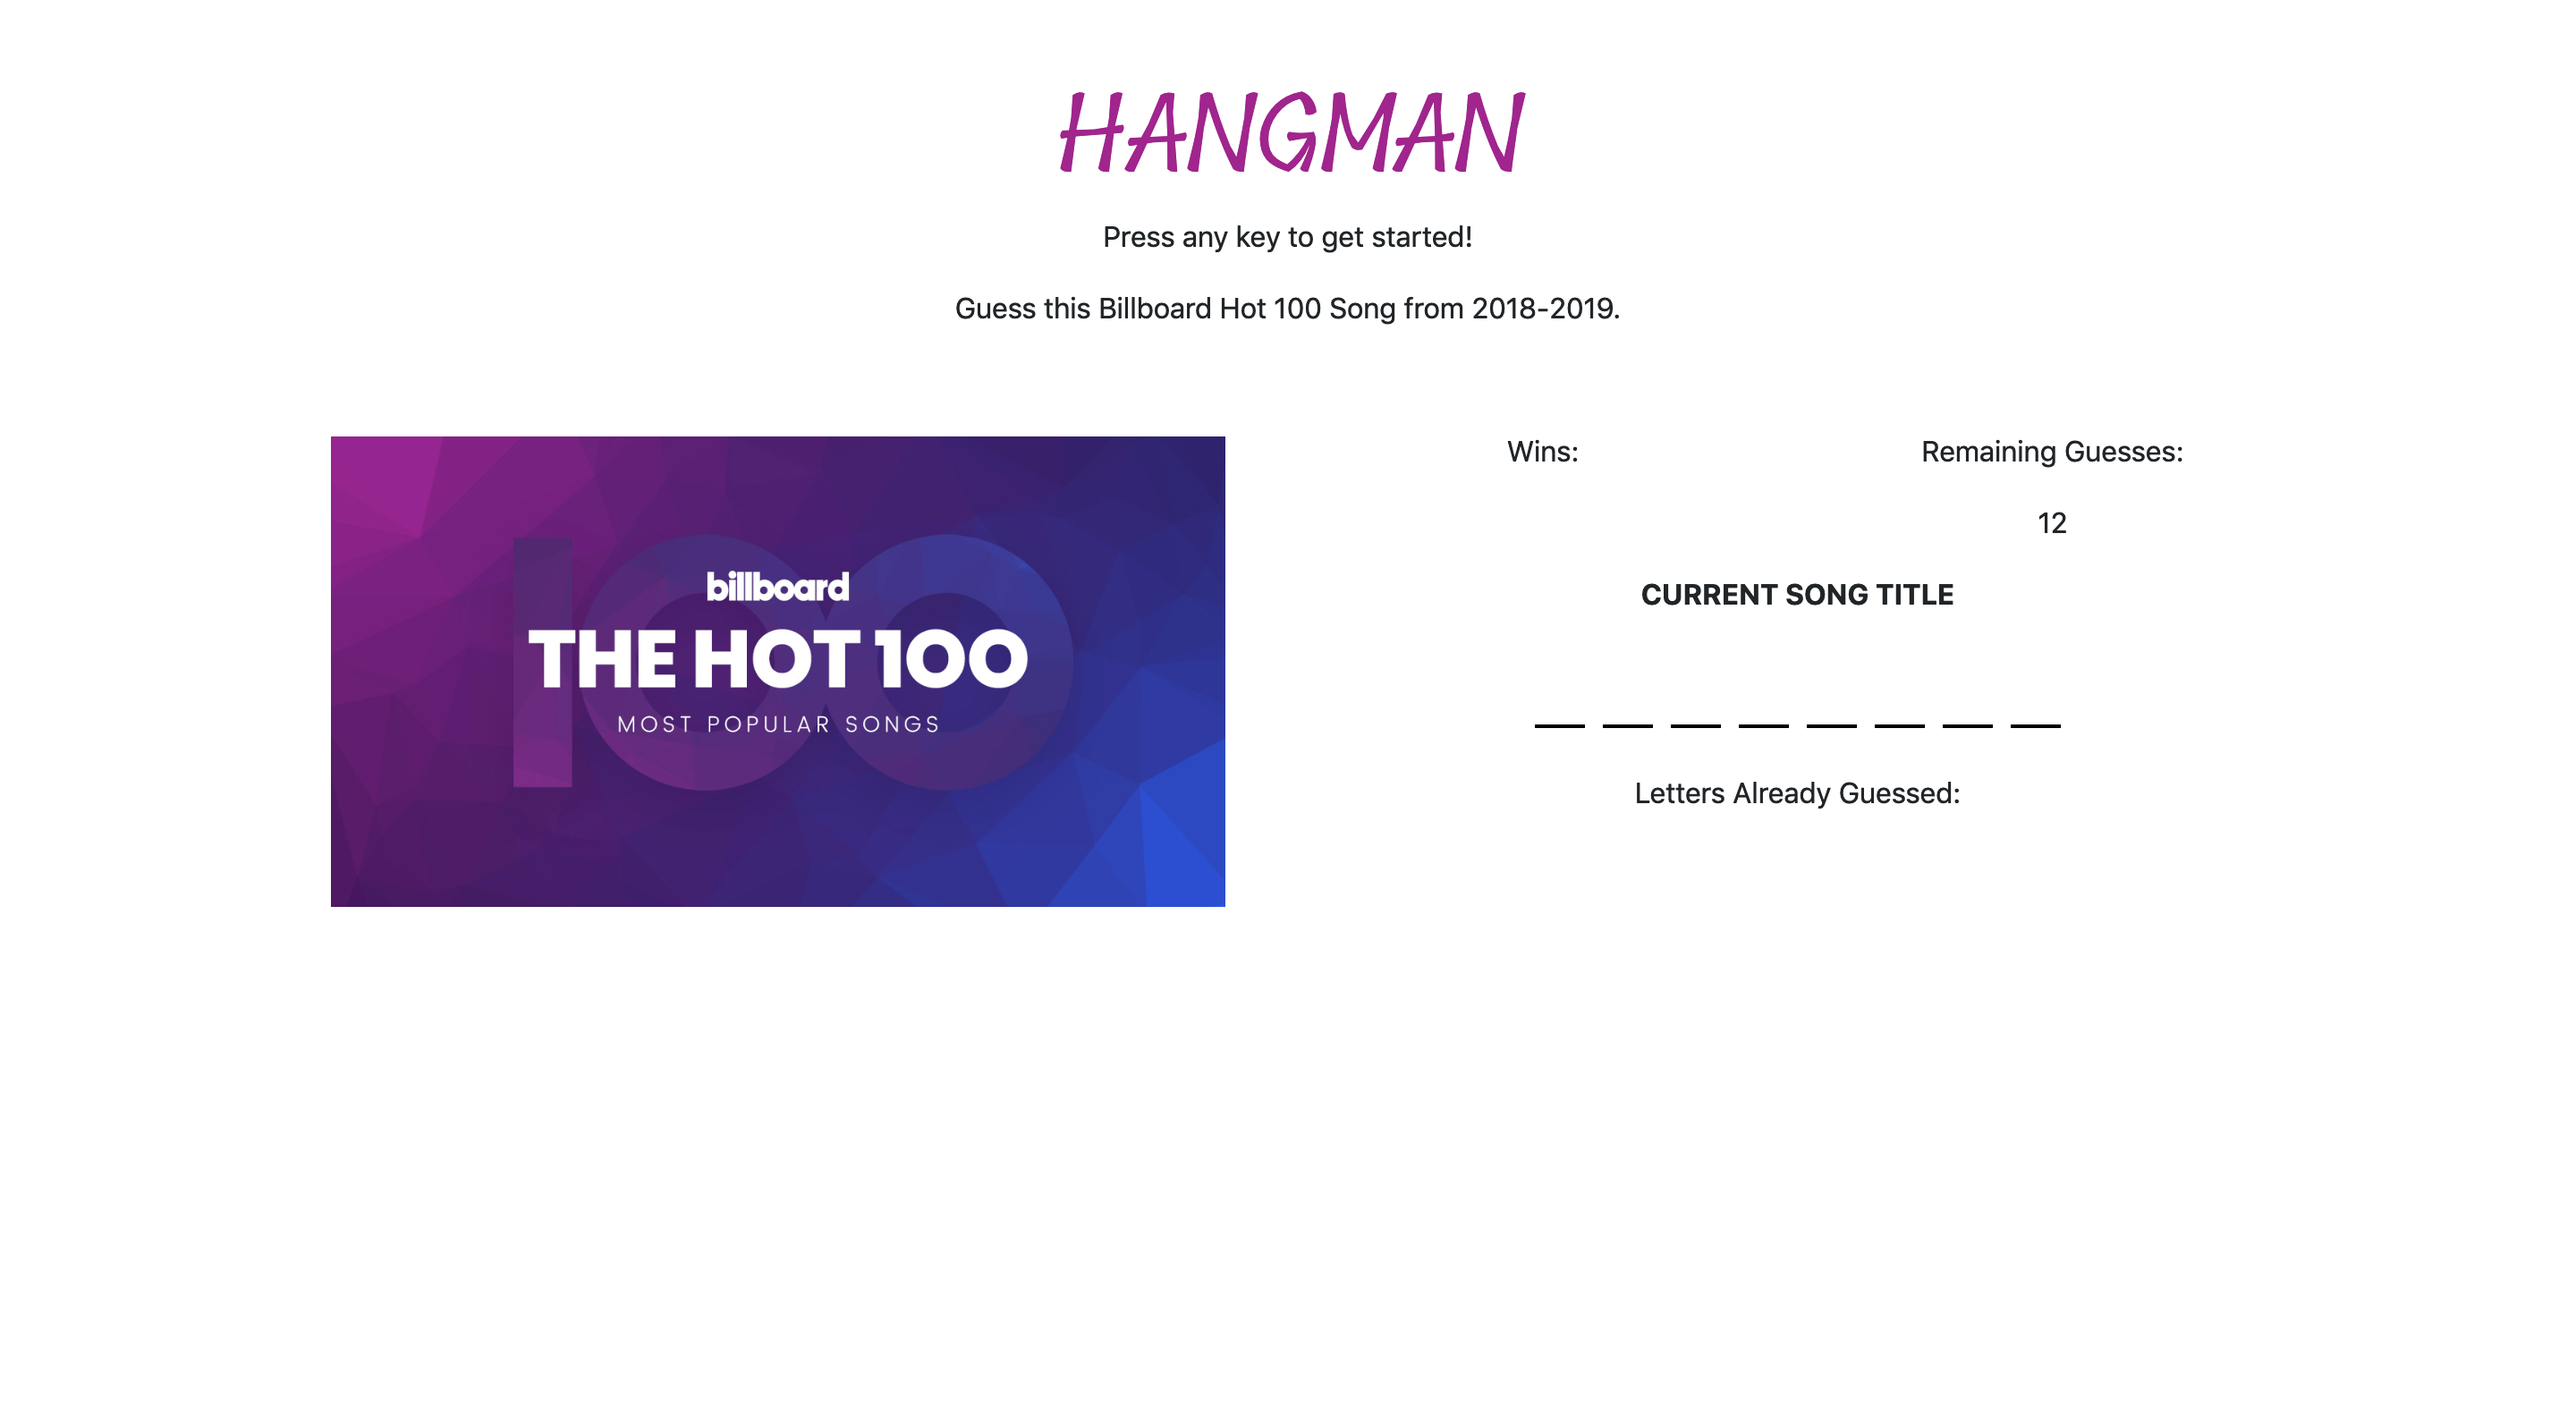
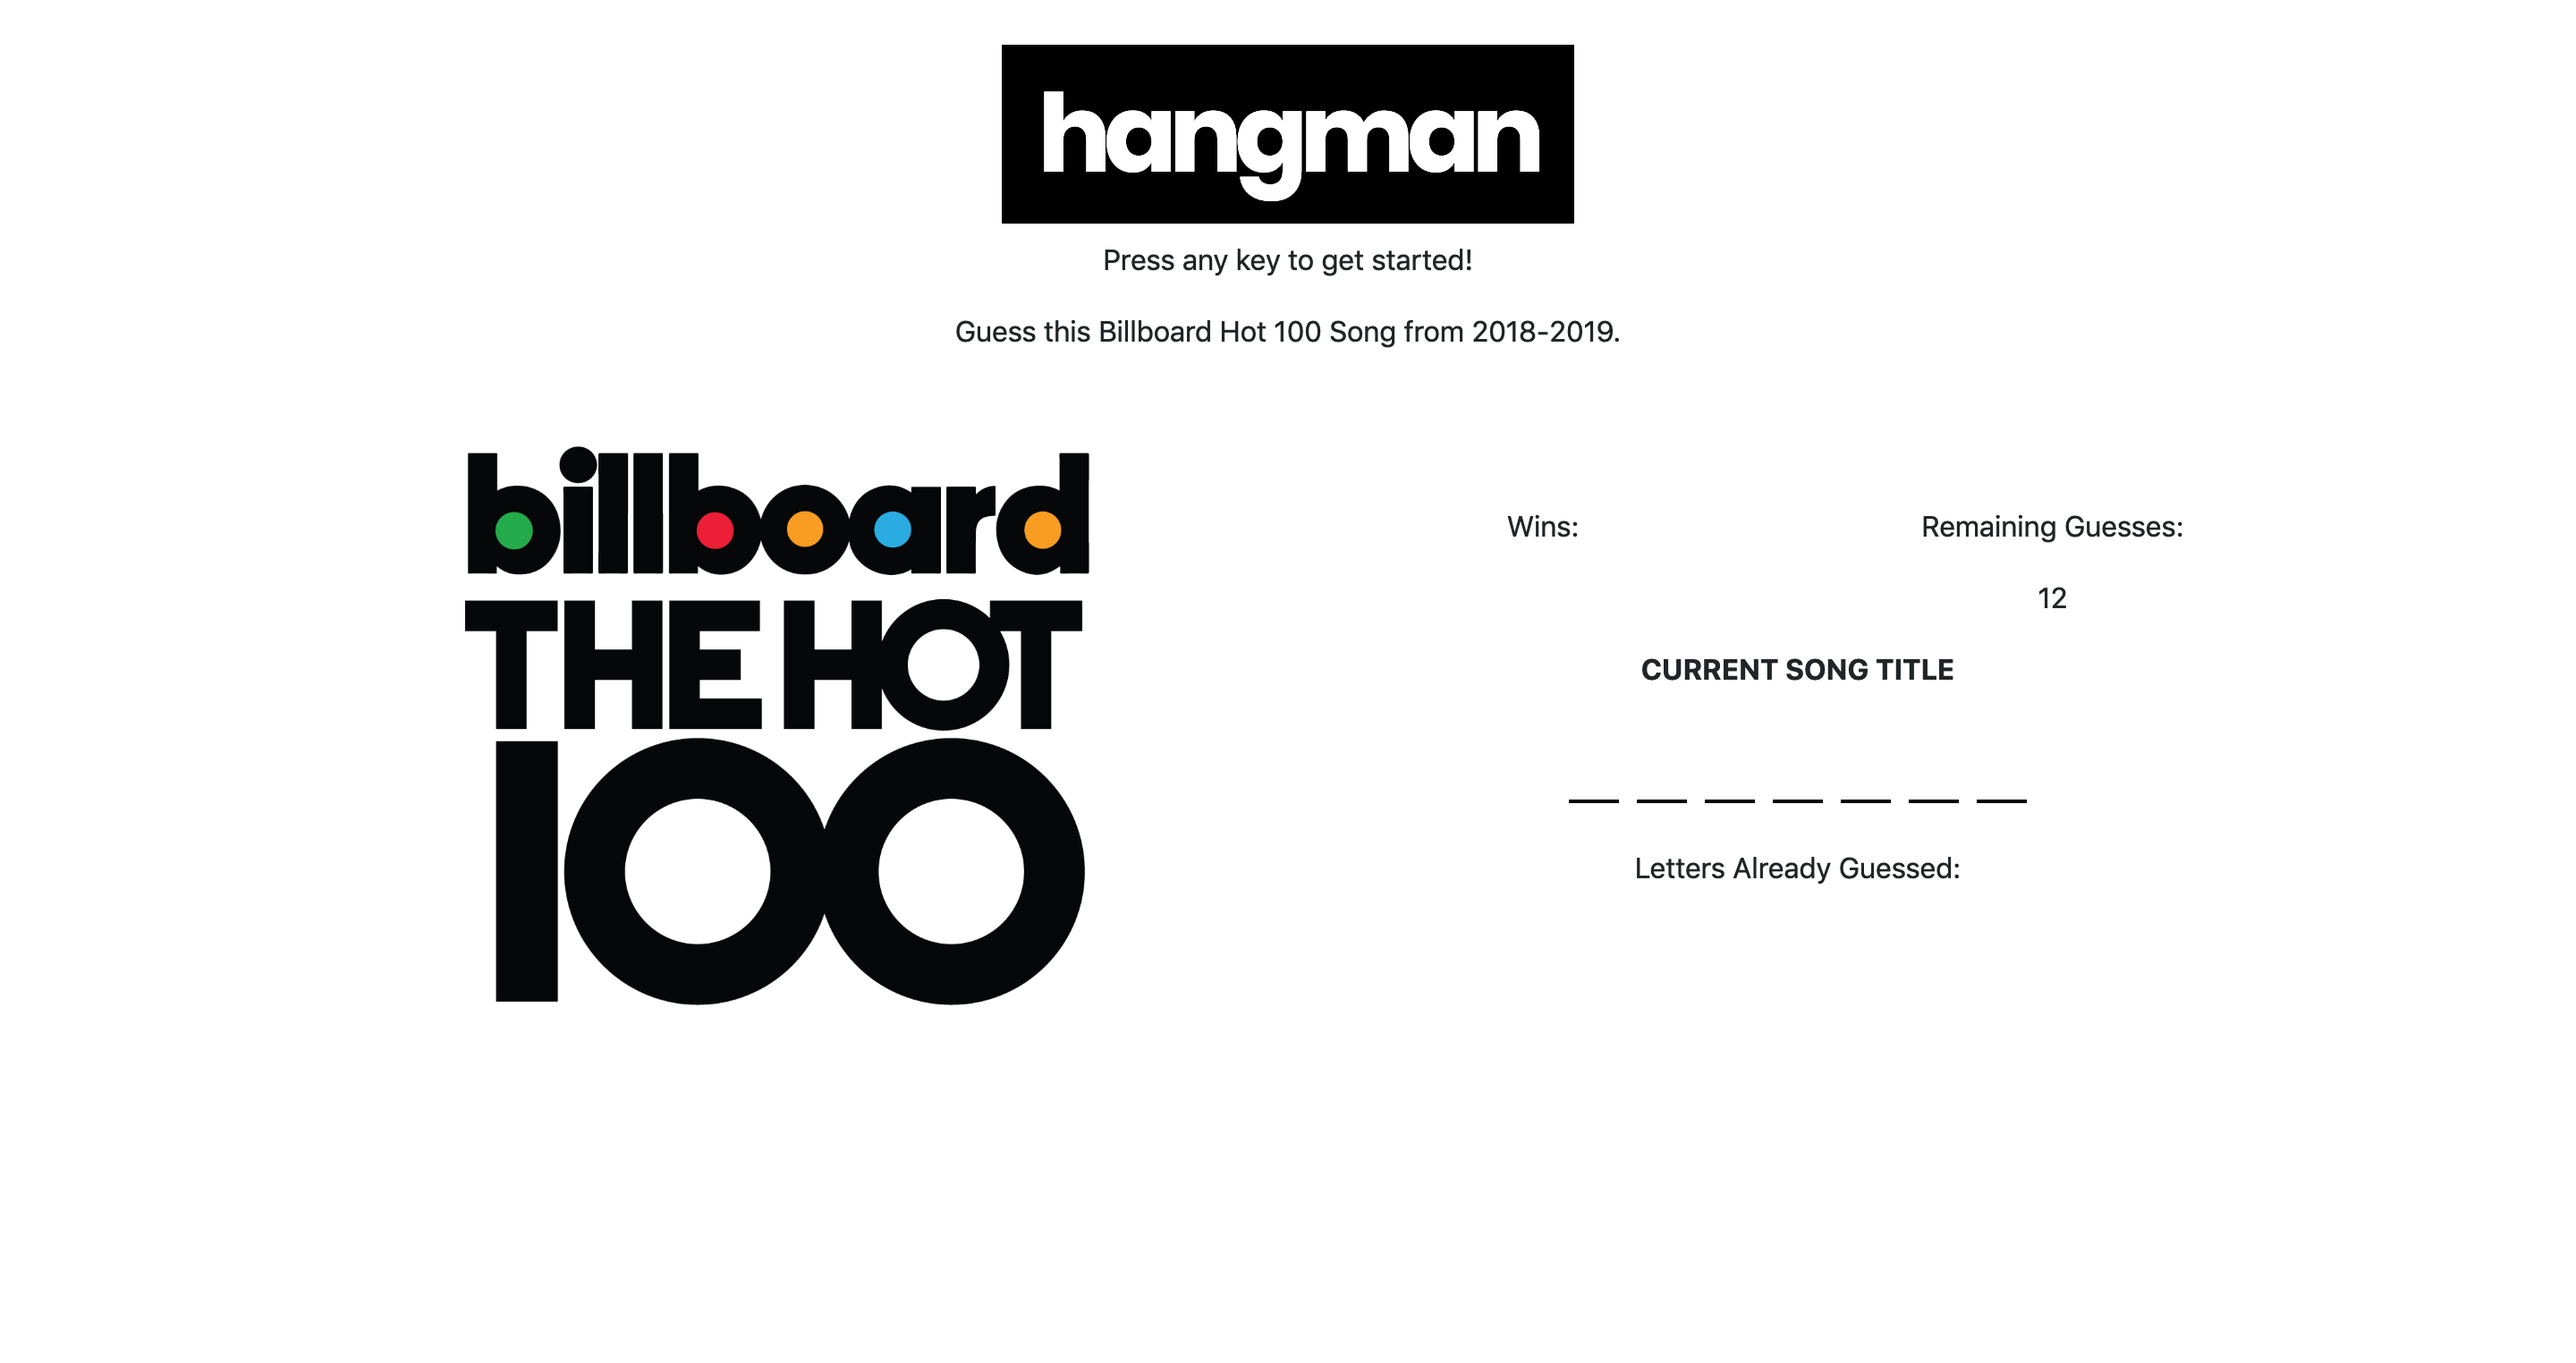
style tweaks, new readme image, file cleanups

diff --git a/index.html b/index.html
@@ -10,8 +10,6 @@
         integrity="sha384-ggOyR0iXCbMQv3Xipma34MD+dH/1fQ784/j6cY/iJTQUOhcWr7x9JvoRxT2MZw1T" crossorigin="anonymous">
     <!-- Poppins Font -->
     <link href="https://fonts.googleapis.com/css?family=Poppins:400,700" rel="stylesheet">
-    <!-- Tillana Font -->
-    <!-- <link href="https://fonts.googleapis.com/css?family=Tillana:400,600,700" rel="stylesheet"> -->
     <link rel="stylesheet" type="text/css" href="assets/css/style.css">
 </head>
 <body>
@@ -33,12 +31,6 @@
                         <img src="assets/images/billboard_hot100.png" class="img-fluid" alt="" id="left-image">
                     </div>
                 </div>
-                <!-- <div class="row mt-3">
-                    <div class="col-md-12">
-                        <input class="btn btn-primary" type="reset" value="Play Again?" id="play-again">
-                    </div>
-                </div> -->
-                
             </div>
 
             <div class="col-xl-6 col-lg-6 col-md-7 align-self-center">
@@ -72,7 +64,7 @@
         </div>
 
         <!-- Last Row -->
-        <div class="row m-5">
+        <div class="row m-4">
             <input class="btn btn-primary" type="reset" value="Play Again?" id="play-again" autofocus>
         </div>
     </div>

diff --git a/assets/css/style.css b/assets/css/style.css
@@ -5,7 +5,6 @@ h1, h2, h3, h4, h5, h6 {
 h1 {
     text-align: center;
     font-size: 60px;
-    /* font-weight: bold; */
     line-height: 1.5;
     color: white;
     text-transform: lowercase;
@@ -22,7 +21,7 @@ img {
 
 
 .title {
-    padding: 5px 15px 15px;;
+    padding: 5px 15px 15px;
     margin: 20px;
 }
 
@@ -60,12 +59,16 @@ input {
 }
 
 #play-again {
-    /* position: absolute; */
-    /* top: -120px; */
-    /* left: 0; */
     display: none;
     opacity: 0;
     transition: all 0.25s ease-in-out;
+    background: #01b1e6;
+    border-color: #01b1e6;
+}
+
+#play-again:hover {
+    background: #007bff;
+    border-color: #007bff;
 }
 
 .show {
@@ -81,6 +84,17 @@ input {
 }
 
 
+
+@media screen and (max-width: 768px) {
+    .m-5 {
+        margin: 1rem!important;
+    }
+
+    .title {
+        padding: 0;
+        margin-bottom: 0;
+    }
+}
 
 
 @media screen and (max-width: 480px) {
@@ -99,13 +113,11 @@ input {
 
 }
 
-@media screen and (max-width: 768px) {
-    .m-5 {
-        margin: 1rem!important;
-    }
 
-    .title {
-        padding: 0;
-        margin-bottom: 0;
+@media screen and (max-width: 450px) {
+    h1 {
+        font-size: 50px;
+        line-height: 1.5;
+        letter-spacing: -4px;
     }
 }

diff --git a/assets/javascript/game.js b/assets/javascript/game.js
@@ -117,9 +117,8 @@ var game = {
             game.chosenArtistText.textContent = '';
 
             // reset image
-        game.leftImage.src = 'assets/images/billboard_hot100.png';
+            game.leftImage.src = 'assets/images/billboard_hot100.png';
             // reset image width
-            // game.leftImage.style.width = '500px';
 
             // start with blank <li>s for each letter in the song name
             for (var i = 0; i < game.chosenSong.length; i++) {
@@ -233,7 +232,6 @@ var game = {
         // change to artist image
         game.leftImage.src = 'assets/images/' + game.chosenSong + '.jpg';
         // shrink image width to fit square image
-        // game.leftImage.style.width = '350px';
 
         // show button, restart game when clicked
         game.playAgainButton.classList.add('show');
